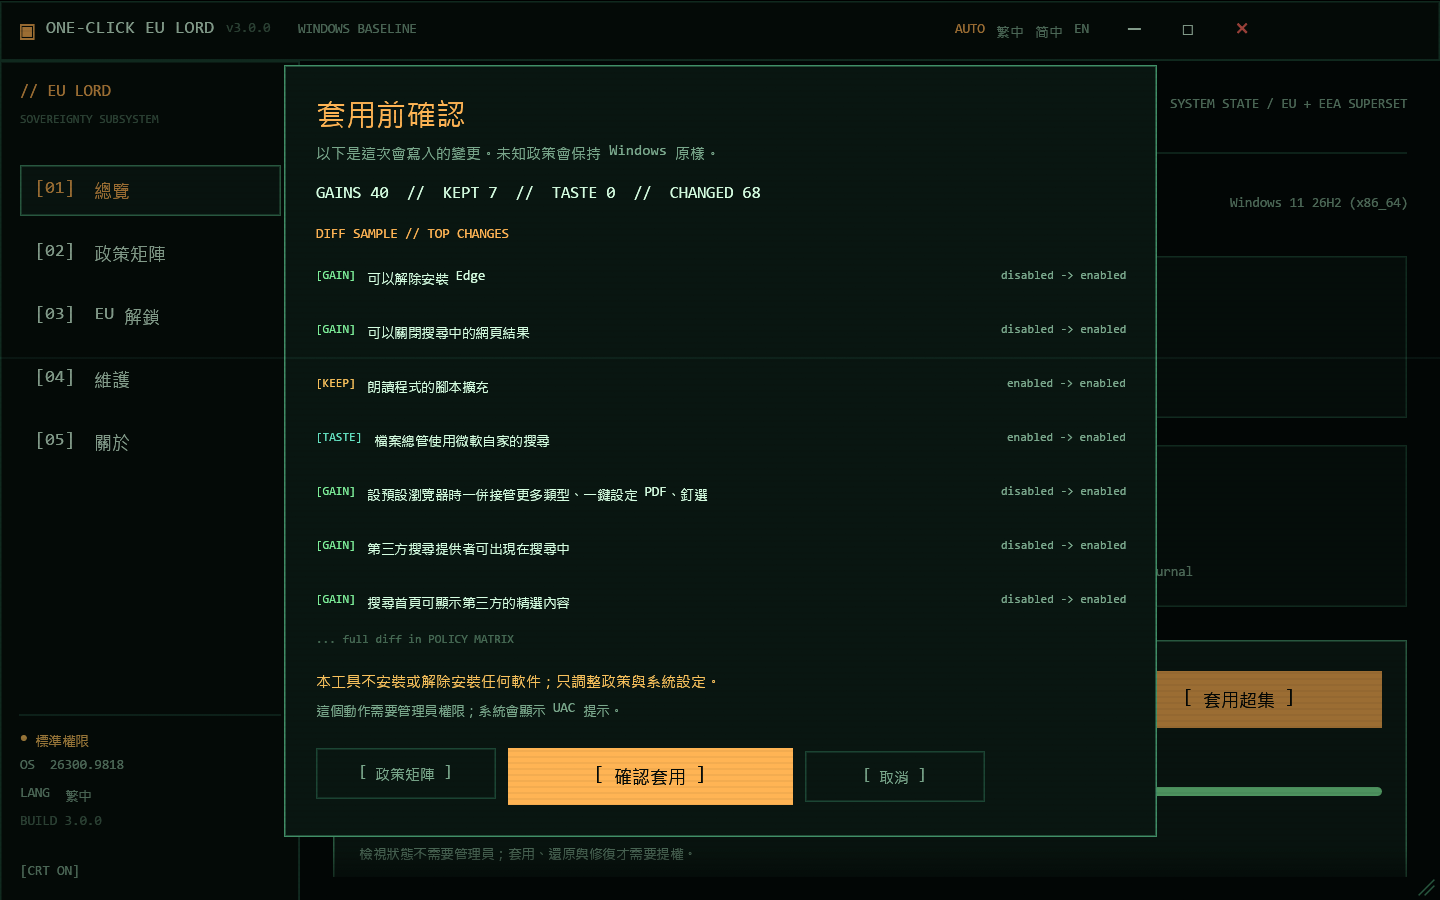
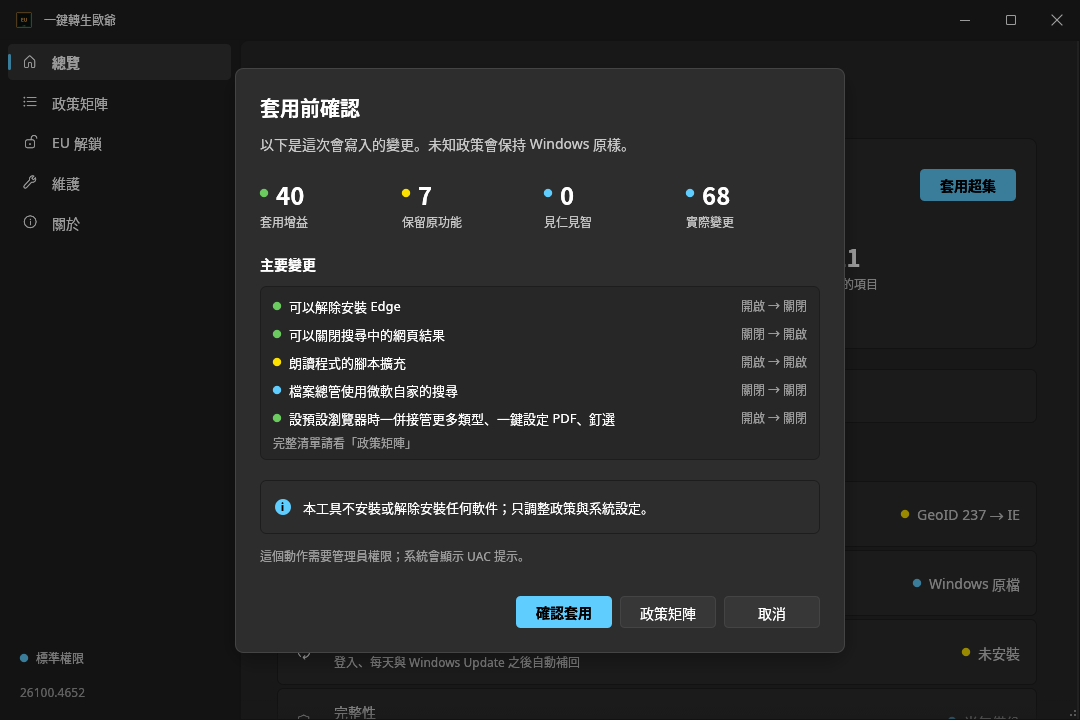
fix(gui): keep review dialog on screen; refresh README screenshots
- The apply review dialog overflowed the top of a 720px window. Size
  the "top changes" list to the window height so the whole dialog,
  buttons included, stays visible.
- Replace docs/images/*-v3.png with screenshots of the Fluent UI.

Claude-Session: https://claude.ai/code/session_012B7Xutfvvt2vvBdvqmGUo9

diff --git a/crates/eulord-app/src/gui.rs b/crates/eulord-app/src/gui.rs
@@ -1898,6 +1898,9 @@ impl App {
 
         if self.show_review {
             let plan = self.snapshot.plan.clone();
+            // Fit the whole dialog (buttons included) in short windows.
+            let top_rows = (((ctx.content_rect().height() - 560.0) / 30.0).floor() as i64)
+                .clamp(3, 7) as usize;
             let mut confirm = false;
             let mut to_policies = false;
             let mut cancel = false;
@@ -1955,7 +1958,9 @@ impl App {
                         .inner_margin(Margin::symmetric(12, 8))
                         .show(ui, |ui| {
                             ui.set_width(ui.available_width());
-                            for decision in plan.changed_decisions().take(7) {
+                            ui.spacing_mut().interact_size.y = 22.0;
+                            ui.spacing_mut().item_spacing.y = 6.0;
+                            for decision in plan.changed_decisions().take(top_rows) {
                                 ui.horizontal(|ui| {
                                     dot(ui, class_color(&p, decision.class));
                                     ui.label(rt(
@@ -1976,7 +1981,7 @@ impl App {
                                     });
                                 });
                             }
-                            if plan.changed_policies > 7 {
+                            if plan.changed_policies > top_rows {
                                 ui.label(rt(
                                     self.l(
                                         "完整清單請看「政策矩陣」",
@@ -2893,7 +2898,8 @@ fn dialog(ctx: &egui::Context, p: &Pal, id: &str, add: impl FnOnce(&mut egui::Ui
                 .inner_margin(Margin::same(24)),
         )
         .show(ctx, |ui| {
-            let width = (ctx.content_rect().width() - 96.0).clamp(380.0, 560.0);
+            let screen = ctx.content_rect();
+            let width = (screen.width() - 96.0).clamp(380.0, 560.0);
             ui.set_width(width);
             ui.set_max_width(width);
             add(ui);
